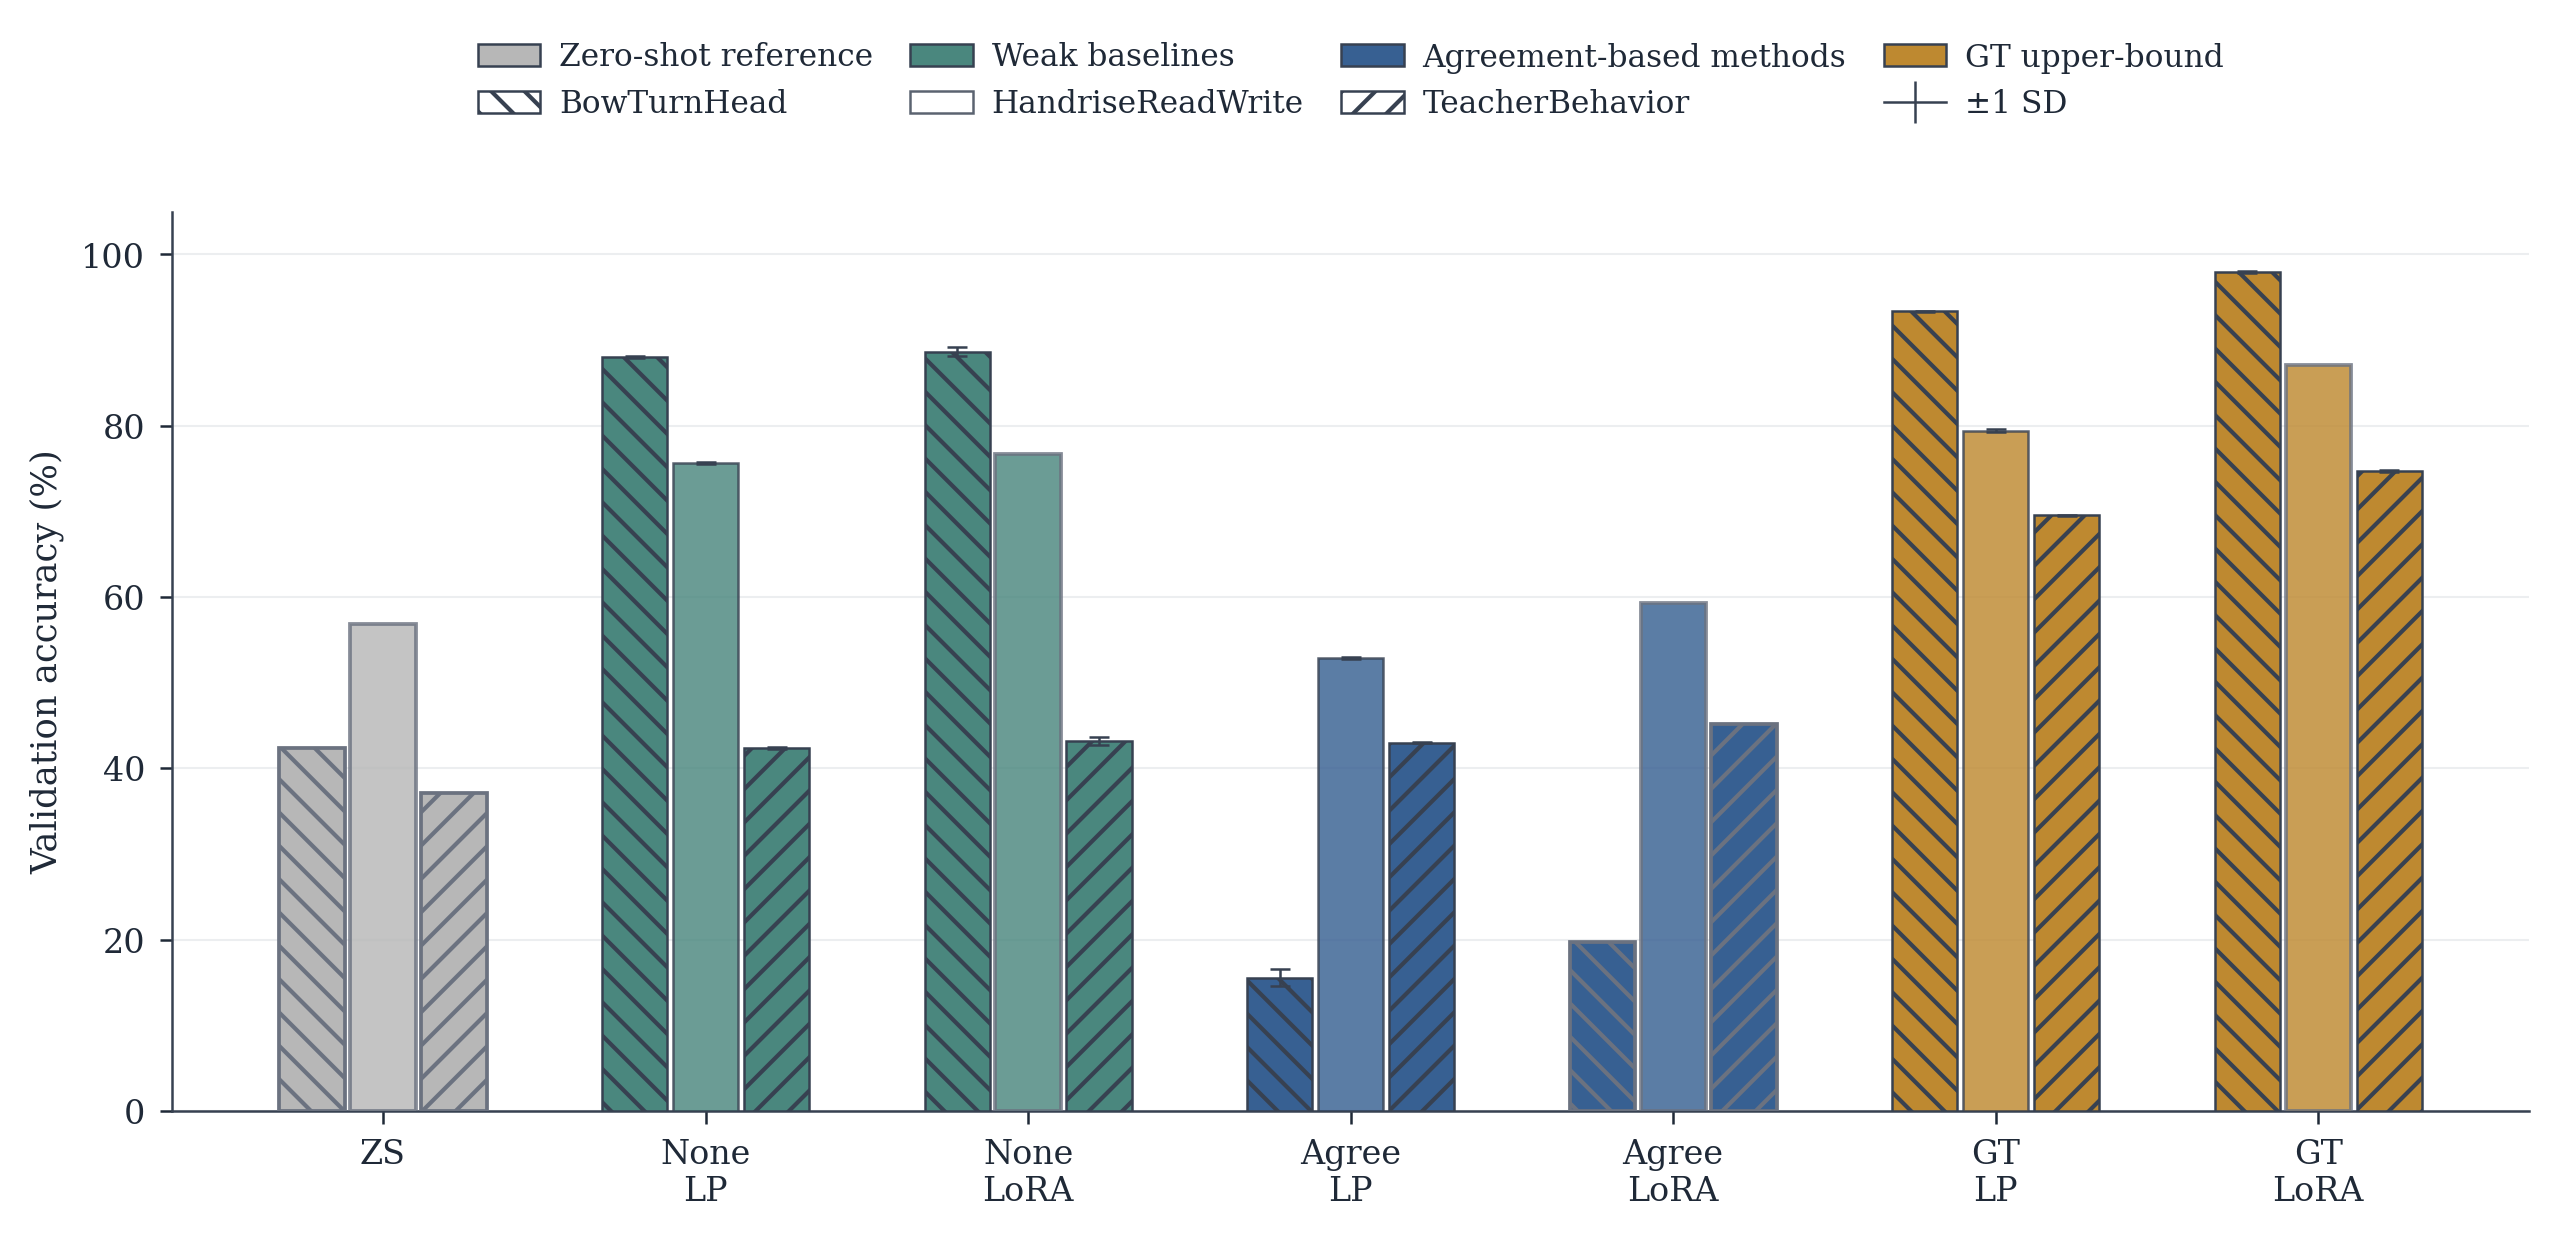
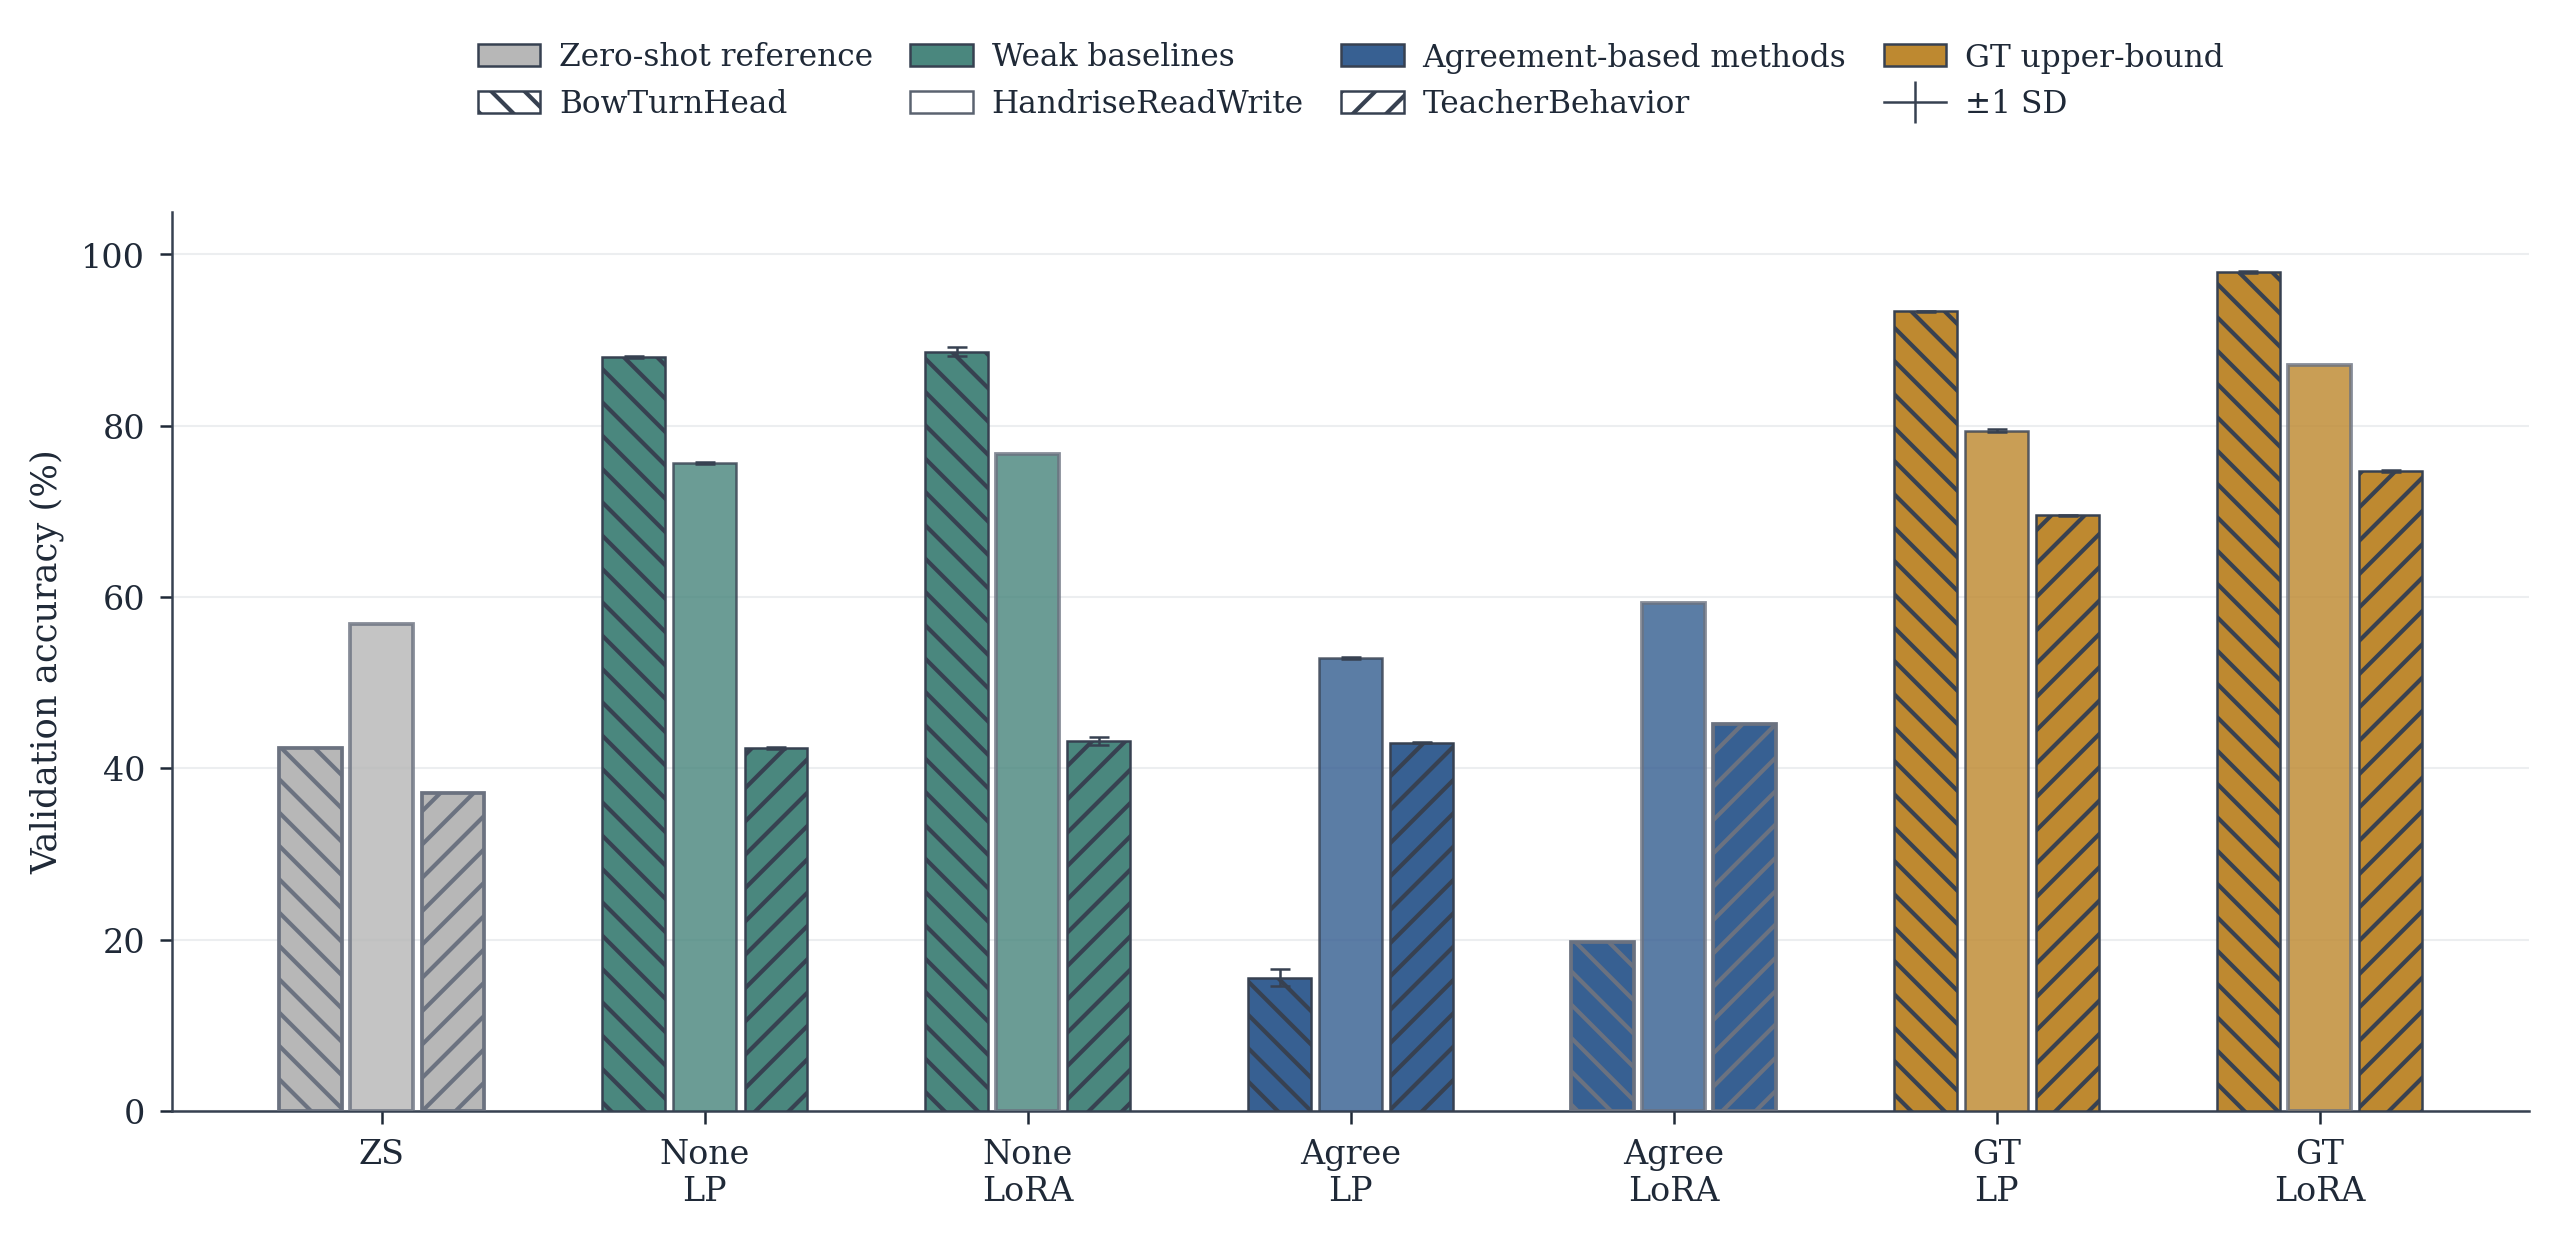
Bar width: 0.88

diff --git a/paper/generate_evidence_figures.py b/paper/generate_evidence_figures.py
@@ -246,7 +246,7 @@ def generate_overview_figure() -> None:
             yerr = entry["sd"] if entry["sd"] is not None else None
             error_kw = {"elinewidth": 0.6, "capsize": 2.5, "capthick": 0.6, "ecolor": EDGE_COLOR}
             bar_kwargs = {
-                "x": positions[idx], "height": entry["value"], "width": width * 0.92,
+                "x": positions[idx], "height": entry["value"], "width": width * 0.88,
                 "color": condition_color, "alpha": dataset_style["alpha"],
                 "hatch": dataset_style["hatch"], "edgecolor": EDGE_COLOR,
                 "linewidth": 0.6, "zorder": 3,